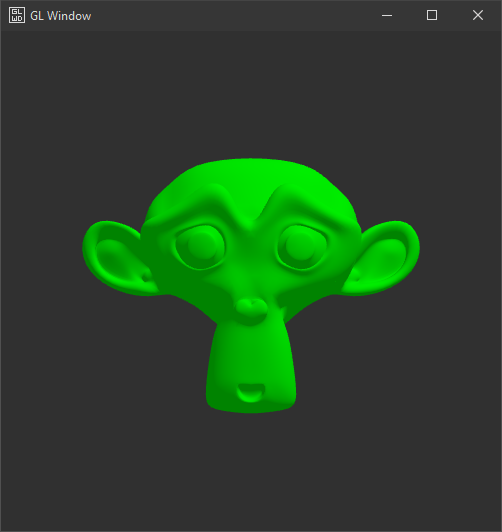
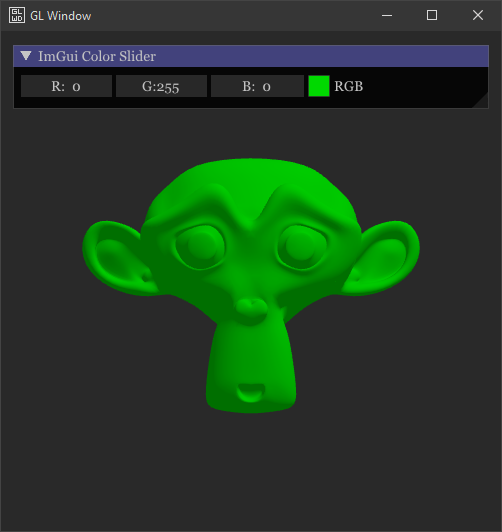
Initial

diff --git a/example/example.mesh.h b/example/example.mesh.h
@@ -5,6 +5,10 @@
 #include <glwnd/mesh.h>
 #include <glwnd/shader.h>
 
+#include <glm/gtc/type_ptr.hpp>
+
+#include glwnd_3rd_include(imgui-1.82/imgui.h)
+
 static Mesh m_mesh; // for sharing between views
 
 class GLViewExampleMesh : public GLView
@@ -15,6 +19,13 @@ public:
 
   virtual void initial()
   {
+    // setup ImGui dialog
+    dear_imgui_cfg cfg;
+    cfg.style = dear_imgui_cfg::styles::IMGUI_CLASSIC;
+    cfg.font_path = "C:\\Windows\\Fonts\\georgia.ttf";
+    cfg.font_size = 16.F;
+    this->parent().enable_dear_imgui(true, &cfg);
+
     // demo model 1
     static model_t monkey;
     monkey.n = "assets\\monkey.obj";
@@ -50,7 +61,14 @@ public:
 
   virtual void on_display()
   {
-    glm::vec3 light_position(-3.F, 6.F, -3.F);
+    // display ImGui dialog - color sider
+    ImGui::Begin("ImGui Color Slider");
+    {
+      static float v[3] = { m_model.c.r, m_model.c.g, m_model.c.b };
+      ImGui::ColorEdit3("RGB", v);
+      m_model.c = glm::make_vec3(v);
+    }
+    ImGui::End();
 
     // demo combine the built-in model-view matrix of the current context with user-defined matrix
     {
@@ -97,6 +115,7 @@ public:
     m_shader.uniform("projection", mtx_projection);
 
     // setup lighting
+    glm::vec3 light_position(-3.F, 6.F, -3.F);
     m_shader.uniform("light.direction", light_position);
     m_shader.uniform("light.ambient",  glm::vec3(0.2f, 0.23f, 0.25f));
     m_shader.uniform("light.diffuse",  glm::vec3(0.6f, 0.63f, 0.65f));
